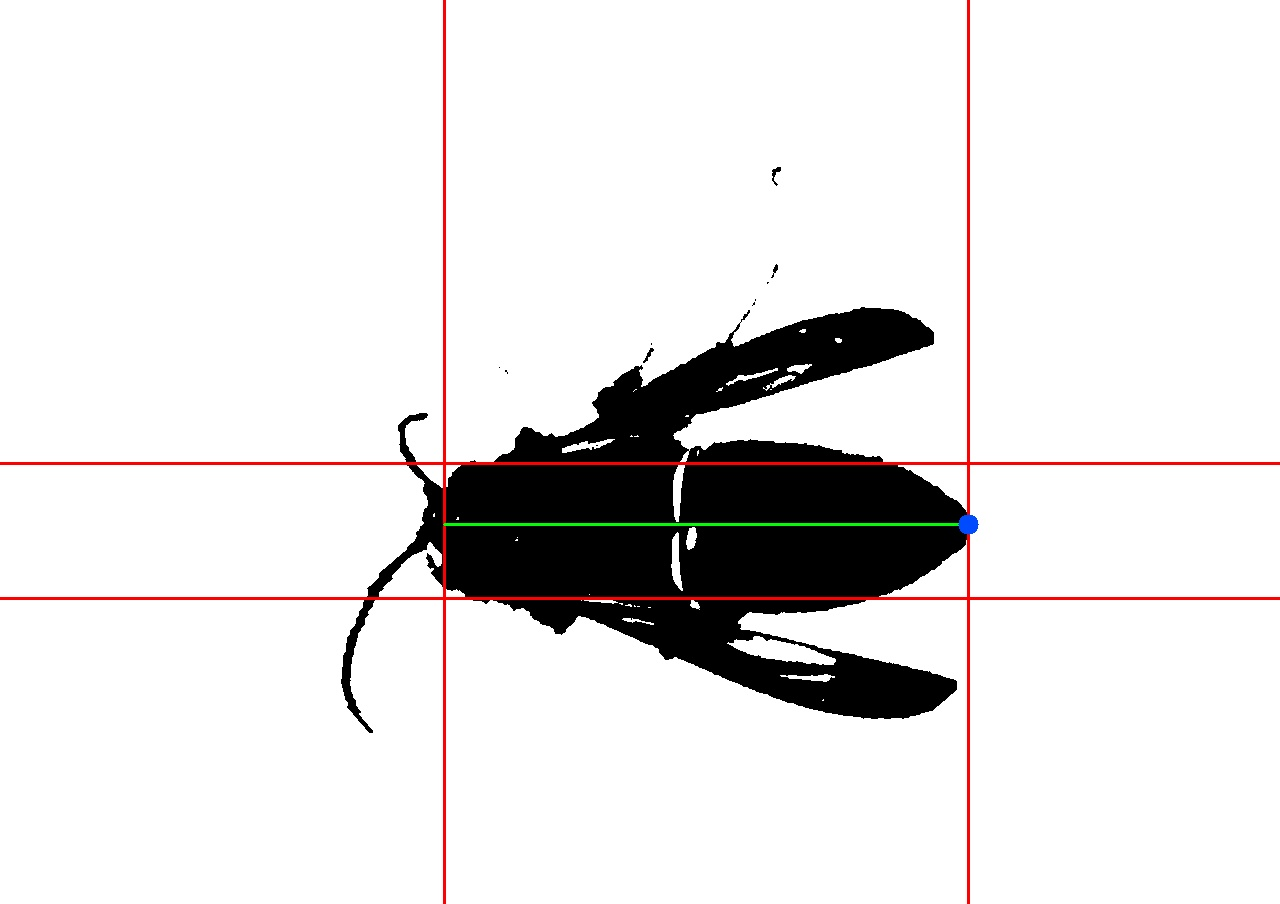
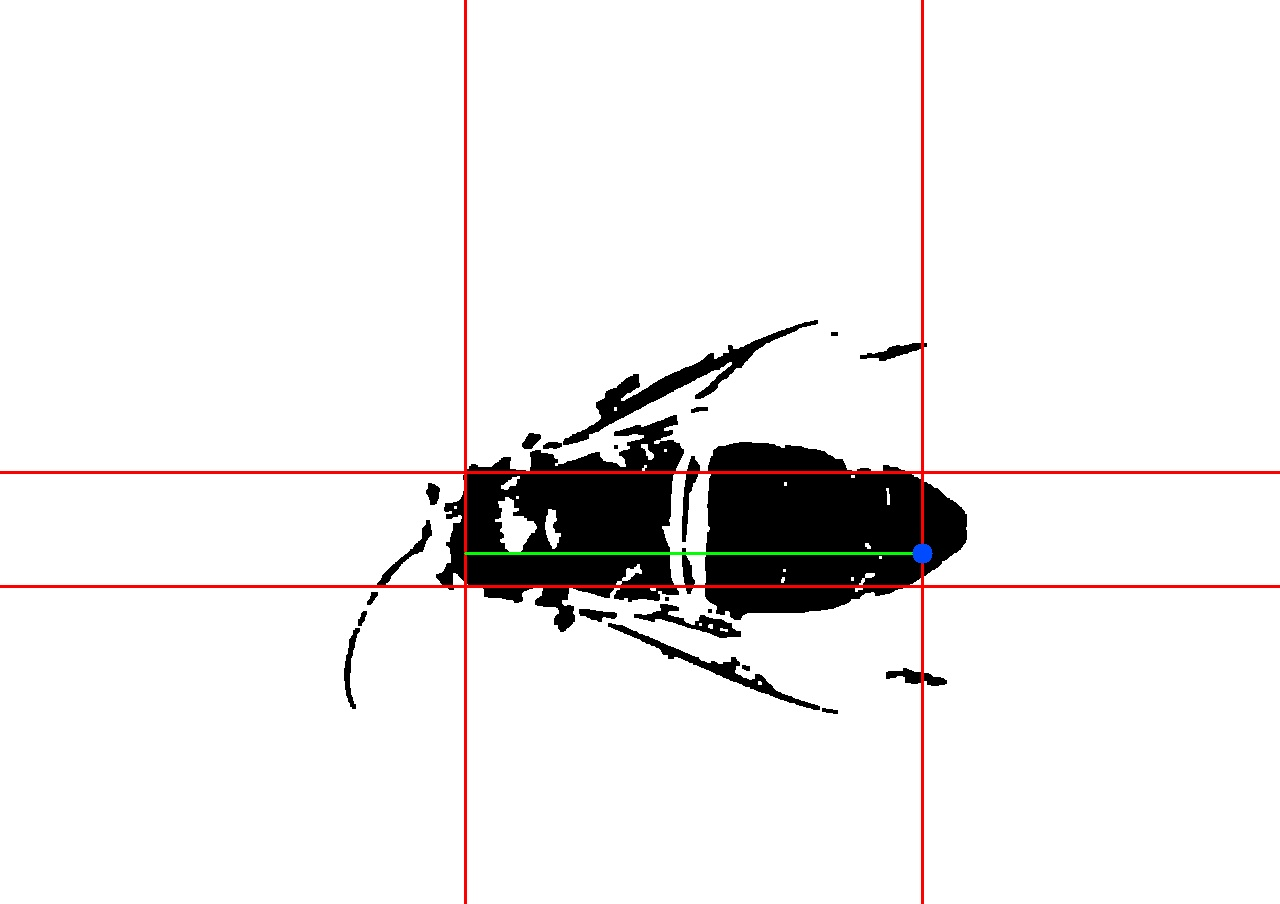
Angle abdomen

Changed region(s): [[0.0, 0.0, 1.0, 1.0]]

diff --git a/Caracteristics/abdomen_shape.py b/Caracteristics/abdomen_shape.py
@@ -1,7 +1,8 @@
-import numpy as np
 import cv2
+import numpy as np
 from PIL import Image
-from PIL.Image import fromarray
+import math
+
 
 def abdomen_shape(picture_array : np.ndarray, sting_coordinates : tuple) -> str:
     im_sting = picture_array[sting_coordinates[1] - 100:sting_coordinates[1],
@@ -14,21 +15,66 @@ def abdomen_shape(picture_array : np.ndarray, sting_coordinates : tuple) -> str:
     cv2.drawContours(image=whiteblankimage, contours=contours, contourIdx=-1, color=(0, 0, 0), thickness=1,
                      lineType=cv2.LINE_AA)
 
-    cv2.imwrite('Footage/Contour_dard.jpg', whiteblankimage)
-    cv2.imshow('Contour_Dard', whiteblankimage)
+    cv2.imwrite('Footage/Contour_dard_haut.jpg', whiteblankimage)
+    cv2.imshow('Contour_Dard_haut', whiteblankimage)
     cv2.waitKey(0)
 
-    dard = Image.open('Footage/Contour_dard.jpg')
-    largeur, hauteur = dard.size
-    X = []
-    Y = []
+    dard_up = Image.open('Footage/Contour_dard_haut.jpg')
+    largeur, hauteur = dard_up.size
+    X1 = []
+    Y1 = []
     for x in range(largeur):
         for y in range(hauteur):
-            if dard.getpixel((x, y)) == (0, 0, 0):
-                X.append(x)
-                Y.append(y)
-    fonction = np.polyfit(X, Y, 1)
-    poly = np.poly1d(fonction)
+            if dard_up.getpixel((x, y)) == (0, 0, 0):
+                X1.append(x)
+                Y1.append(y)
+    fonction1 = np.polyfit(X1, Y1, 1)
+    poly1 = np.poly1d(fonction1)
 
-    print(X,Y)
-    print(poly)
+    print(X1,Y1)
+    print(poly1)
+    m1= poly1.coeffs
+    print(m1)
+
+    im_sting = picture_array[sting_coordinates[1]:sting_coordinates[1]+100,
+               sting_coordinates[0]-100:sting_coordinates[0]]
+
+    edged = cv2.Canny(im_sting, 30, 200)
+    contours, hierarchy = cv2.findContours(edged, cv2.RETR_EXTERNAL, cv2.CHAIN_APPROX_NONE)
+    whiteblankimage = 255 * np.ones(shape=[100, 150, 3], dtype=np.uint8)
+
+    cv2.drawContours(image=whiteblankimage, contours=contours, contourIdx=-1, color=(0, 0, 0), thickness=1,
+                     lineType=cv2.LINE_AA)
+
+    cv2.imwrite('Footage/Contour_dard_bas.jpg', whiteblankimage)
+    cv2.imshow('Contour_Dard_bas', whiteblankimage)
+    cv2.waitKey(0)
+
+    dard_down = Image.open('Footage/Contour_dard_bas.jpg')
+    largeur, hauteur = dard_down.size
+    X2 = []
+    Y2 = []
+    for x in range(largeur):
+        for y in range(hauteur):
+            if dard_down.getpixel((x, y)) == (0, 0, 0):
+                X2.append(x)
+                Y2.append(y)
+    fonction2 = np.polyfit(X2, Y2, 1)
+    poly2 = np.poly1d(fonction2)
+
+    print(X2, Y2)
+    print(poly2)
+    m2 = poly2.coeffs
+    print(m2)
+
+    tan = (m1[0] - m2[0])/(1 + m1[0]*m2[0])
+    arctan = np.arctan(tan)
+    degre = arctan * 180 / math.pi
+    print(degre)
+
+    if degre <= 90:
+        print("pointu")
+        return "pointu"
+    if degre > 90:
+        print("rond")
+        return "rond"
